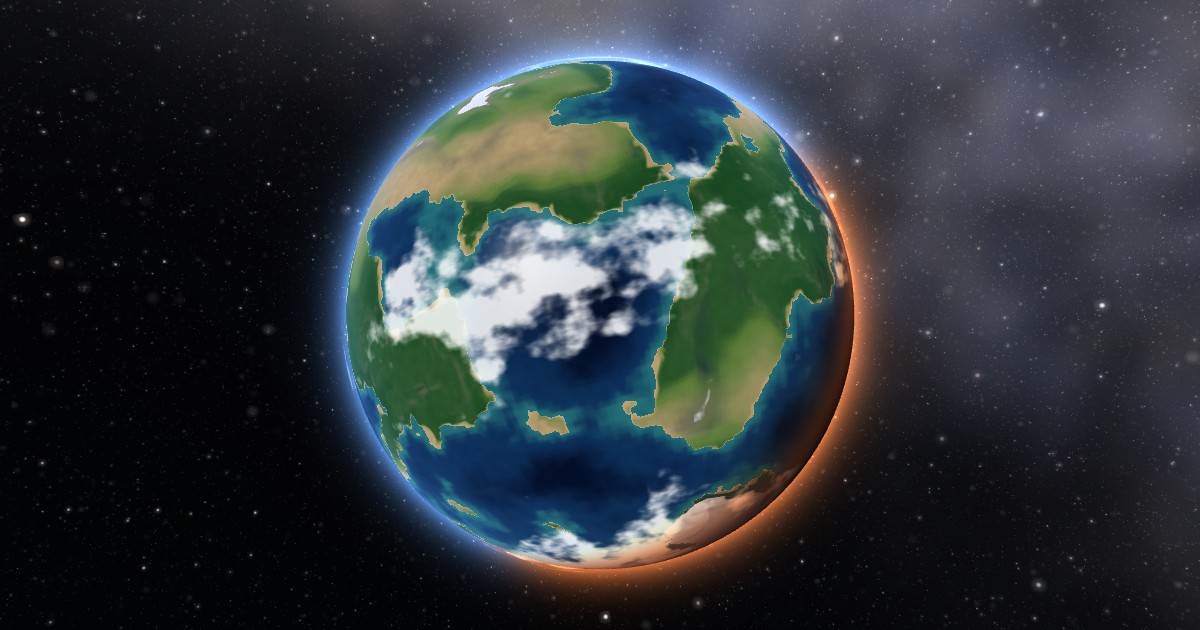
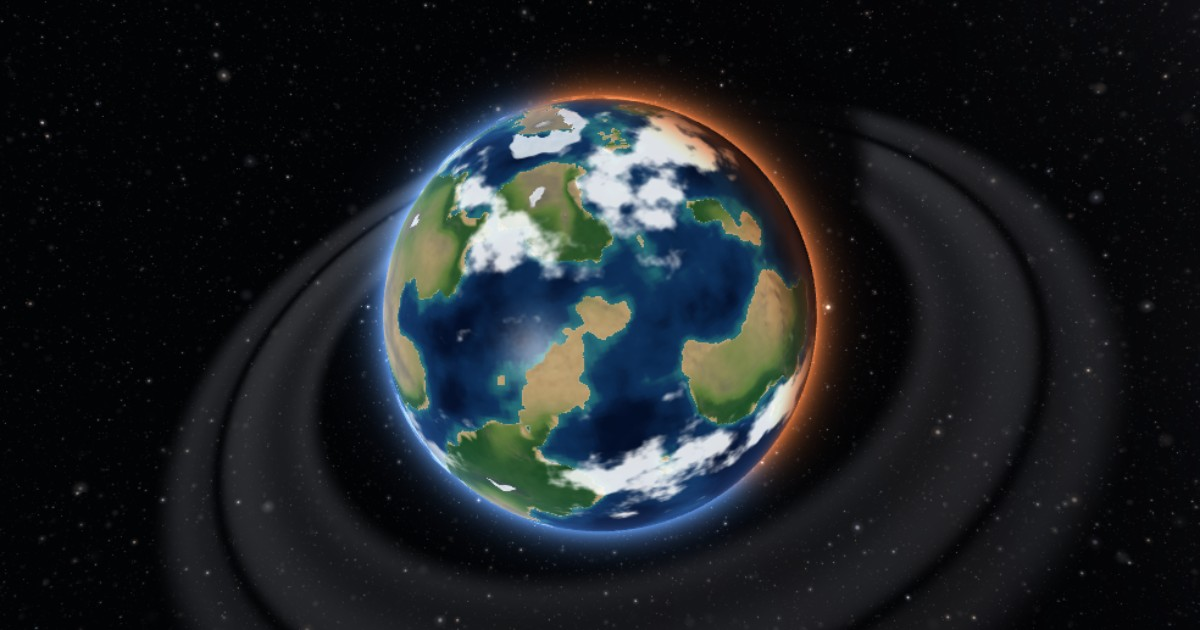
Reshoot the hero images, and fix the flaky pinch check
The screenshot and the social preview were two features out of date: no
ring, and the old ink-black night side. Both retaken at the seed the
README already quotes, a year in and at the solstice, from far enough
above the ring plane to open the ellipse.

The pinch check was failing on unchanged code and then passing on a
rerun, which is worse than failing outright -- a check nobody can trust
will eventually hide something real. The splash covers the canvas and
only stops taking pointer events a moment after the world reports ready,
and unlike the other tests this one dispatches genuine touches, so they
hit whatever is on top. Under software rendering that 120ms was
sometimes enough to swallow the whole pinch. Wait for the splash to let
go first. Three consecutive runs now agree to the digit.

diff --git a/tools/verify.js b/tools/verify.js
@@ -229,6 +229,14 @@ async function touch(browser) {
   page.on('pageerror', e => errs.push(e.message));
   await page.goto('file://' + PAGE + '#seed=31337');
   await page.waitForFunction(() => window.__world && window.__world.S.epoch0 > 0, { timeout: 180000 });
+  // The splash covers the canvas and only stops taking pointer events a moment
+  // after the world is ready. These are real dispatched touches, so they hit
+  // whatever is on top: fire them too early and the splash swallows the pinch,
+  // the camera never moves, and the run fails on code that is perfectly fine.
+  await page.waitForFunction(() => {
+    const s = document.getElementById('splash');
+    return !s || s.classList.contains('gone');
+  }, { timeout: 30000 });
   await page.evaluate(() => window.__world.freeze(1.1));
 
   const box = await page.evaluate(() => ({

diff --git a/README.md b/README.md
@@ -56,7 +56,7 @@ Measured over a simulated hour, ocean coverage stays within about 62–64%, ice 
 
 **Ice.** Snow tracks temperature, but with an albedo feedback: white ground keeps itself cold. That positive feedback plus lateral diffusion is why ice sheets are sticky and ragged, growing peninsulas and stranding floes, instead of tracking a latitude circle.
 
-**The ring.** A thin equatorial ring, there mostly to say where you are looking from: it projects to an ellipse whose flatness is the viewing angle, edge-on from the equator and a full circle from the pole, needing no legend to be read. It earns its keep twice, because the axis is tilted 24° and the star's declination swings through the year, so the shadow the ring throws migrates north and south across the surface — an annual clock that falls out of the geometry rather than being drawn on. The planet shadows the ring in turn, and the ring brightens when backlit, which happens to peak as the star passes behind the planet. It fades out as you zoom in, where it would be an arc sweeping the frame and would tell you nothing.
+**The ring.** A faint equatorial ring, standing well clear of the surface, there mostly to say where you are looking from: it projects to an ellipse whose flatness is the viewing angle, edge-on from the equator and a full circle from the pole, needing no legend to be read. It earns its keep twice, because the axis is tilted 24° and the star's declination swings through the year, so the shadow the ring throws migrates north and south across the surface — an annual clock that falls out of the geometry rather than being drawn on. The planet shadows the ring in turn, and the ring brightens when backlit, which happens to peak as the star passes behind the planet. It fades out as you zoom in, where it would be an arc sweeping the frame and would tell you nothing.
 
 **Rendering.** WebGL2, hand-rolled, no libraries. The simulation grid uploads to a float texture; the fragment shader reads it through a Catmull-Rom filter with analytic derivatives for relief shading, and adds fractal detail so a coarse grid yields organic coastlines. Surface detail is band-limited against the pixel footprint to avoid aliasing. Atmospheric scattering is evaluated along the whole chord of air a sightline crosses, which is why the limb still glows when the star passes behind the planet.
 
